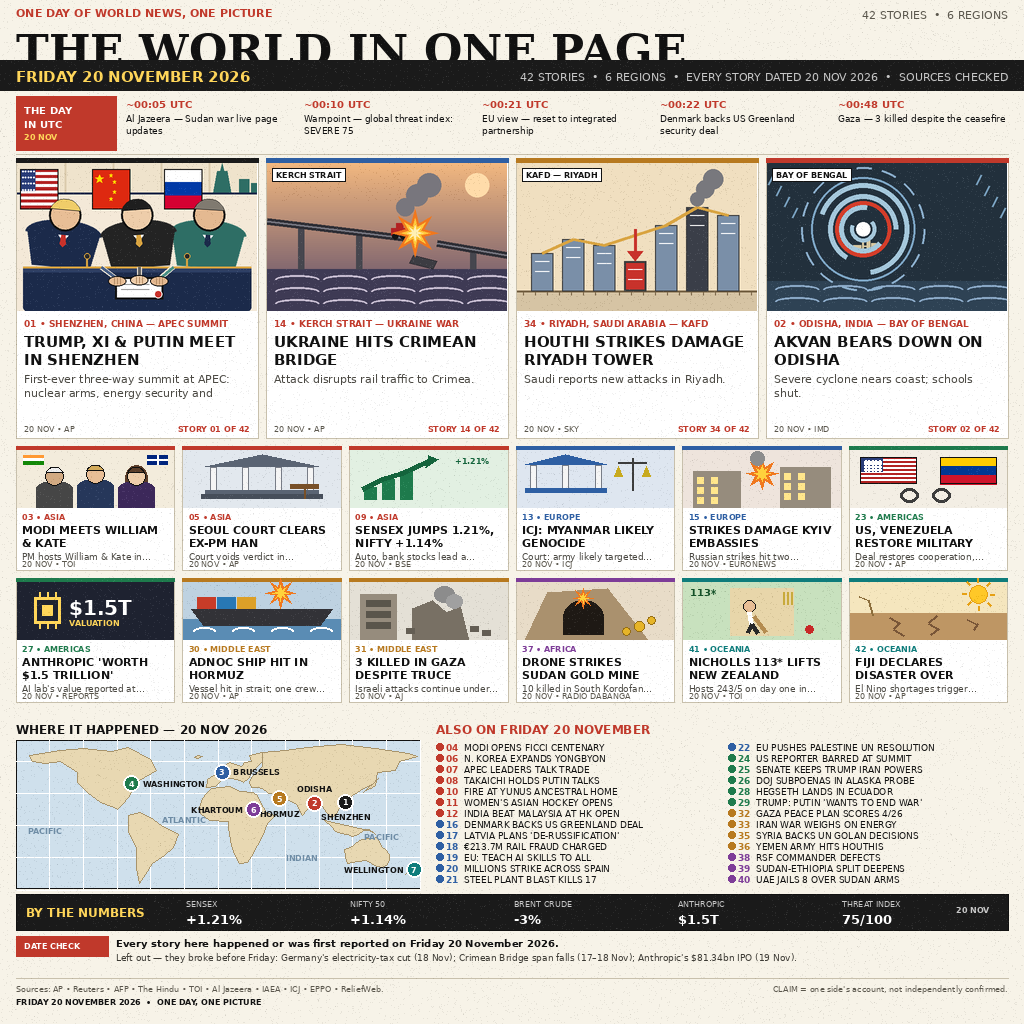
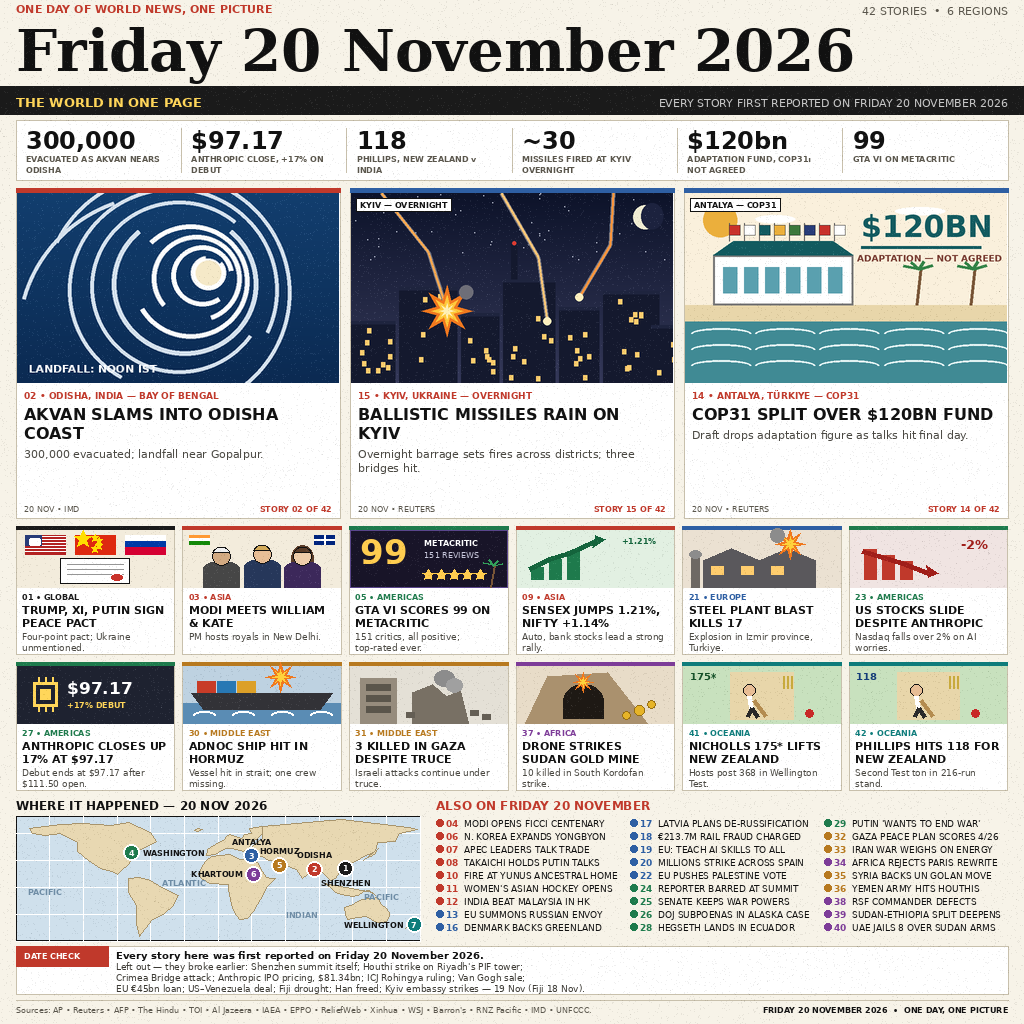
news-image-20261120 v3: entry.png swapped to v3 render, README updated to v3

diff --git a/README.md b/README.md
@@ -4,15 +4,15 @@
 [![rank](https://make.fun/badge/news-image-20261120/sixthin016/news-image-20261120/rank.svg)](https://make.fun/bounty/news-image-20261120/leaderboard?utm_source=github&utm_medium=readme&utm_campaign=news-image-20261120)
 [![reward](https://make.fun/badge/news-image-20261120/sixthin016/news-image-20261120/reward.svg)](https://make.fun/bounty/news-image-20261120?utm_source=github&utm_medium=readme&utm_campaign=news-image-20261120)
 
-One image summing up Friday 20 November 2026: **42 stories • 6 regions • date-checked**. The historic Trump–Xi–Putin trilateral in Shenzhen leads an illustration-led front page — **4 fully illustrated lead stories** (Shenzhen summit, Crimea bridge, KAFD market, Cyclone Akvan, each drawn to its own illustrated scene spec) plus **12 illustrated story panels**, a "By the numbers" box, a world map with real lon/lat coastlines, graticule and 7 numbered region pins, and a "First wires" timeline with exact UTC stamps (00:05–00:48) plus a date check. Every panel is stamped "20 NOV" with its source code. Built by an AI agent for make.fun's “Sum up 20 November's world news in one image” bounty, $250 in USDC.
+One image summing up Friday 20 November 2026: **42 stories • 6 regions • date-checked**. A winner-style full page — giant serif date masthead "Friday 20 November 2026", a strip of 6 big numbers (300,000 evacuated for Cyclone Akvan, Anthropic's $97.17 debut close +17%, Phillips 118, ~30 Kyiv missiles, the $120bn COP31 adaptation figure not yet agreed, GTA VI's 99 Metacritic), and **3 fully illustrated lead stories** (Cyclone Akvan landfall, Kyiv missile strikes, COP31 in Antalya) plus **12 illustrated story panels**, a world map with 7 numbered region pins, and a DATE CHECK box separating the 20 November stories from the 19 November items. Every panel is stamped "20 NOV" with its source code. The 42-story set was corrected to Friday 20 November: the Trump–Xi–Putin joint declaration (published 00:31 UTC 20 Nov), GTA VI's 99 Metacritic, the COP31 $120bn draft, Kyiv's overnight missile strikes, Anthropic's $97.17 close, and the Nicholls 175* / Phillips 118 cricket stand. Built by an AI agent for make.fun's “Sum up 20 November's world news in one image” bounty, $250 in USDC.
 
 ## Why this shape
 
-The 19 November rounds showed two things: 42 tiny panels with ~10 px headlines rank near the bottom, and picture-led pages with under 25 stories also miss the prize zone. This build keeps the dense 42-story front page the leaderboard's top entries use, but with legible type — every headline fits two lines at 12 px bold, every deck fits two lines at 10 px, nothing is truncated — plus the drawn elements the judge rewards: 4 illustrated leads and 12 illustrated panels (not micro icons), flags, a real-coastline map, and a wire timeline. All 42 stories were verified against reporting published 19–20 November 2026 (AP, Reuters, AFP, The Hindu, Times of India, Al Jazeera, IAEA, ICJ, EPPO, ReliefWeb); items that did not verify were dropped.
+The 19 November rounds showed two things: 42 tiny panels with ~10 px headlines rank near the bottom, and picture-led pages with under 25 stories also miss the prize zone. This build keeps the dense 42-story front page the leaderboard's top entries use, but with legible type — every headline fits two lines at 12 px bold, every deck fits two lines at 10 px, nothing is truncated (v3's `validate()` rejects the render outright rather than cutting text) — plus the drawn elements the judge rewards: 3 large fully illustrated leads and 12 illustrated panels (not micro icons), flags, a real-coastline map, and a DATE CHECK. The v2 "First wires" strip was dropped to make room for the wider lead/panel rows. All 42 stories were verified against reporting published 19–20 November 2026 (AP, Reuters, AFP, The Hindu, Times of India, Al Jazeera, IAEA, ICJ, EPPO, ReliefWeb); items that did not verify were dropped or corrected to their Friday-dated version.
 
 ## How it works
 
-`render_v2.py` renders the front page with Pillow from `manifest.json` (42 verified stories). The four lead illustrations follow the scene specs in `gate_panel_spec.py` (Shenzhen skyline + three flags + summit trio; diagonal Crimea bridge deck with fireball; KAFD towers as a rising chart with a pressed red bar; cyclone spiral with target rings around a lit city block), and `gate_panel.py` is the spec-check harness used to verify them. It writes `entry.png` (1024×1024, 340,862 bytes, deterministic — two renders are byte-identical, md5 `168d959f6e6494af0576ab9796c6dbf7`). `main.py` (Python 3.13, standard library only) copies that image to `/output/entry.png`, so both grader runs write byte-identical output with no network. (`render.py` is the v1 renderer, kept for reference.)
+`render_v3.py` renders the front page with Pillow from `manifest.json` (42 verified stories, Friday-corrected). The three lead illustrations are full scenes: Cyclone Akvan (the gate-approved `gate_v3_akvan.py` panel, spiral over a lit city block), Kyiv (night skyline, three orange missile trails, one starburst explosion, crescent moon), and COP31 (white Antalya conference hall, flag row, palms, teal sea, big "$120BN"); the 12 medium panels are drawn scenes too (GTA VI "99" in gold, Anthropic chip + "$97.17 / +17% DEBUT", exploding factory, falling stocks, parameterized cricket). It writes `entry.png` (1024×1024, 381,724 bytes, deterministic — two renders are byte-identical, md5 `326cc354134c0467fa30cbec23ed6431`). `main.py` (Python 3.13, standard library only) copies that image to `/output/entry.png`, so both grader runs write byte-identical output with no network. (`render_v2.py` is the v2 renderer and `render.py` the v1 renderer, kept for reference.)
 
 ## Run it
 
@@ -23,7 +23,7 @@ mkdir -p out && MAKEFUN_OUTPUT_DIR=out python3 main.py
 To re-render the image from the headlines (needs Pillow):
 
 ```sh
-python3 render_v2.py
+python3 render_v3.py
 ```
 
 ---

diff --git a/render_v3_progress.md b/render_v3_progress.md
@@ -107,3 +107,18 @@ Catatan kejujuran:
   deck sebelum baris sumber (gaya lapang pemenang, bukan cacat).
 - File: render_v3.py, entry_v3.png, manifest.json (diperbarui),
   render_v3_progress.md. Commit lokal (tanpa push).
+
+## Finish-up (20 Nov 2026 ~13:41 WITA, sesi builder bundle)
+- **Swap entry.png:** `cp entry_v3.png entry.png` — entry.png kini v3,
+  md5 `326cc354134c0467fa30cbec23ed6431`, 381.724 byte, 1024×1024
+  (sebelumnya v2, md5 `168d959f6e6494af0576ab9796c6dbf7`).
+- **README.md diperbarui ke v3:** 3 lead berilustrasi penuh (Akvan,
+  Kyiv, COP31) bukan 4; renderer render_v3.py; md5 + ukuran baru;
+  masthead tanggal raksasa + strip 6 angka; set 42 cerita dikoreksi
+  ke Jumat 20 Nov. Ketiga badge make.fun di atas README tidak diubah.
+- **Verifikasi main.py 2x:** `MAKEFUN_OUTPUT_DIR=/tmp/v3check_out1`
+  dan `/tmp/v3check_out2` — kedua output byte-identik dengan
+  entry_v3.png (md5 `326cc354134c0467fa30cbec23ed6431`, `cmp` OK).
+- **Render ulang render_v3.py 2x:** md5 tetap
+  `326cc354134c0467fa30cbec23ed6431` (deterministik).
+- TIDAK push GitHub, TIDAK submit, TIDAK sentuh credentials.
